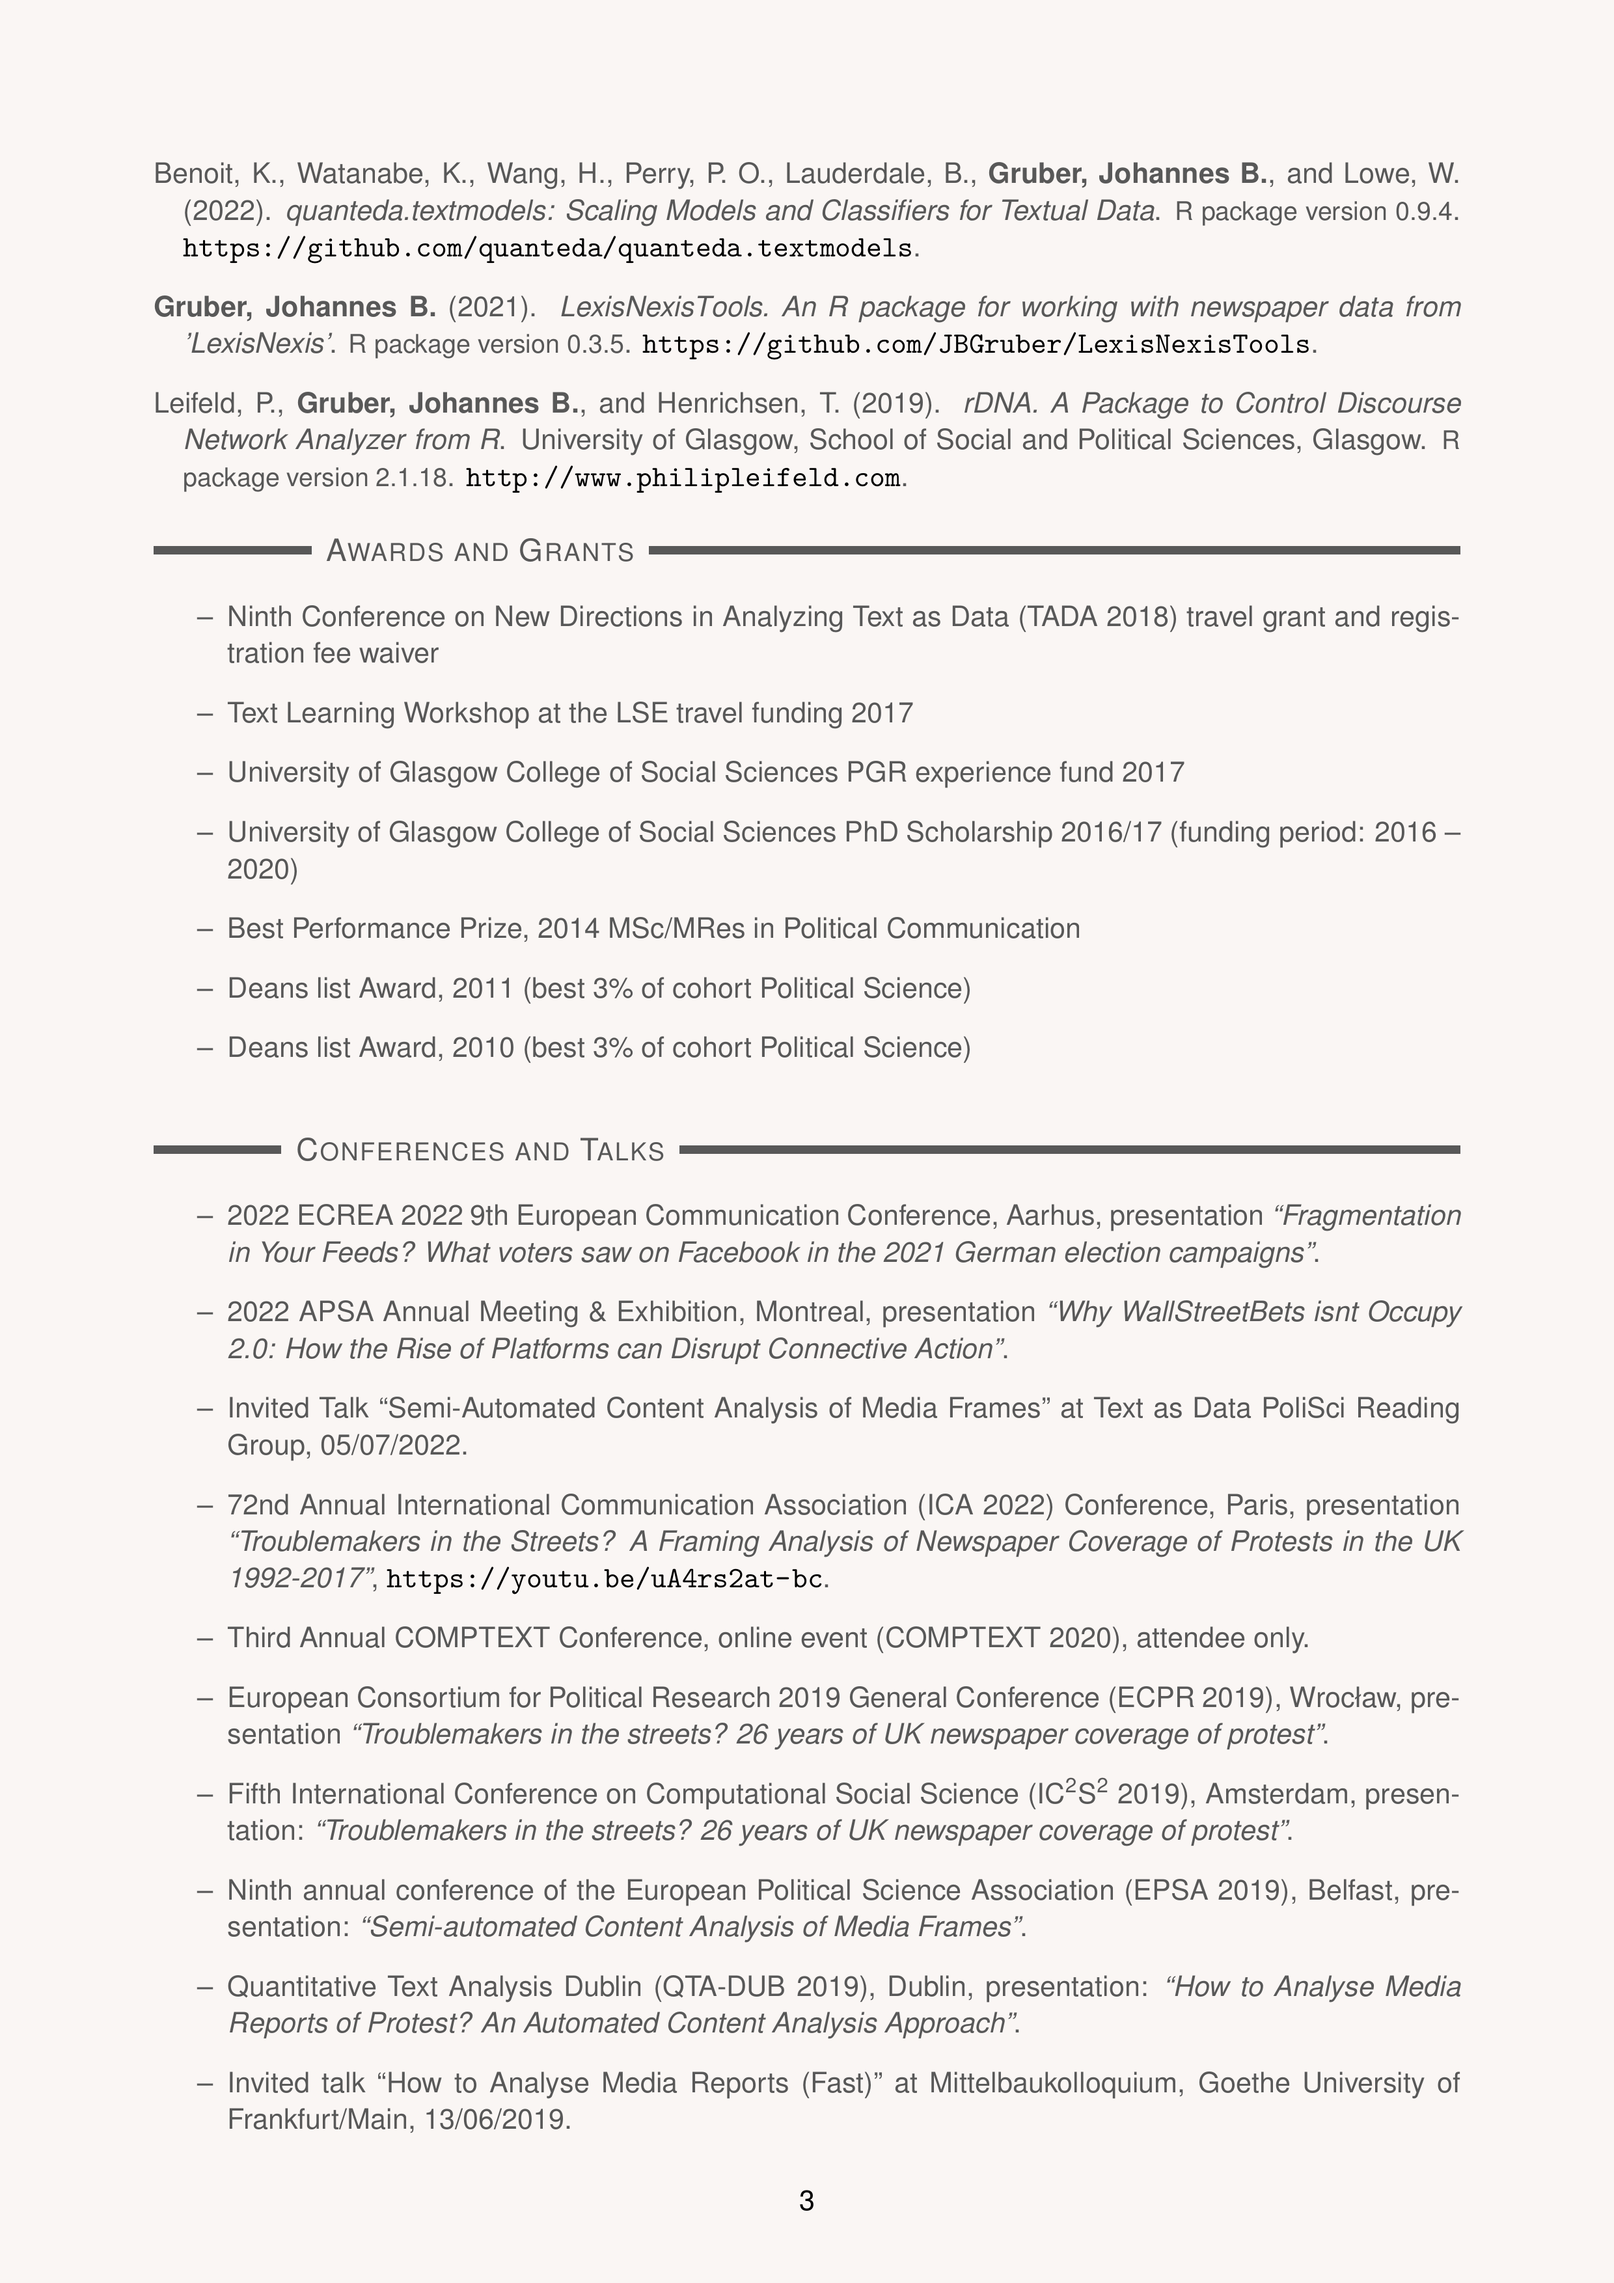
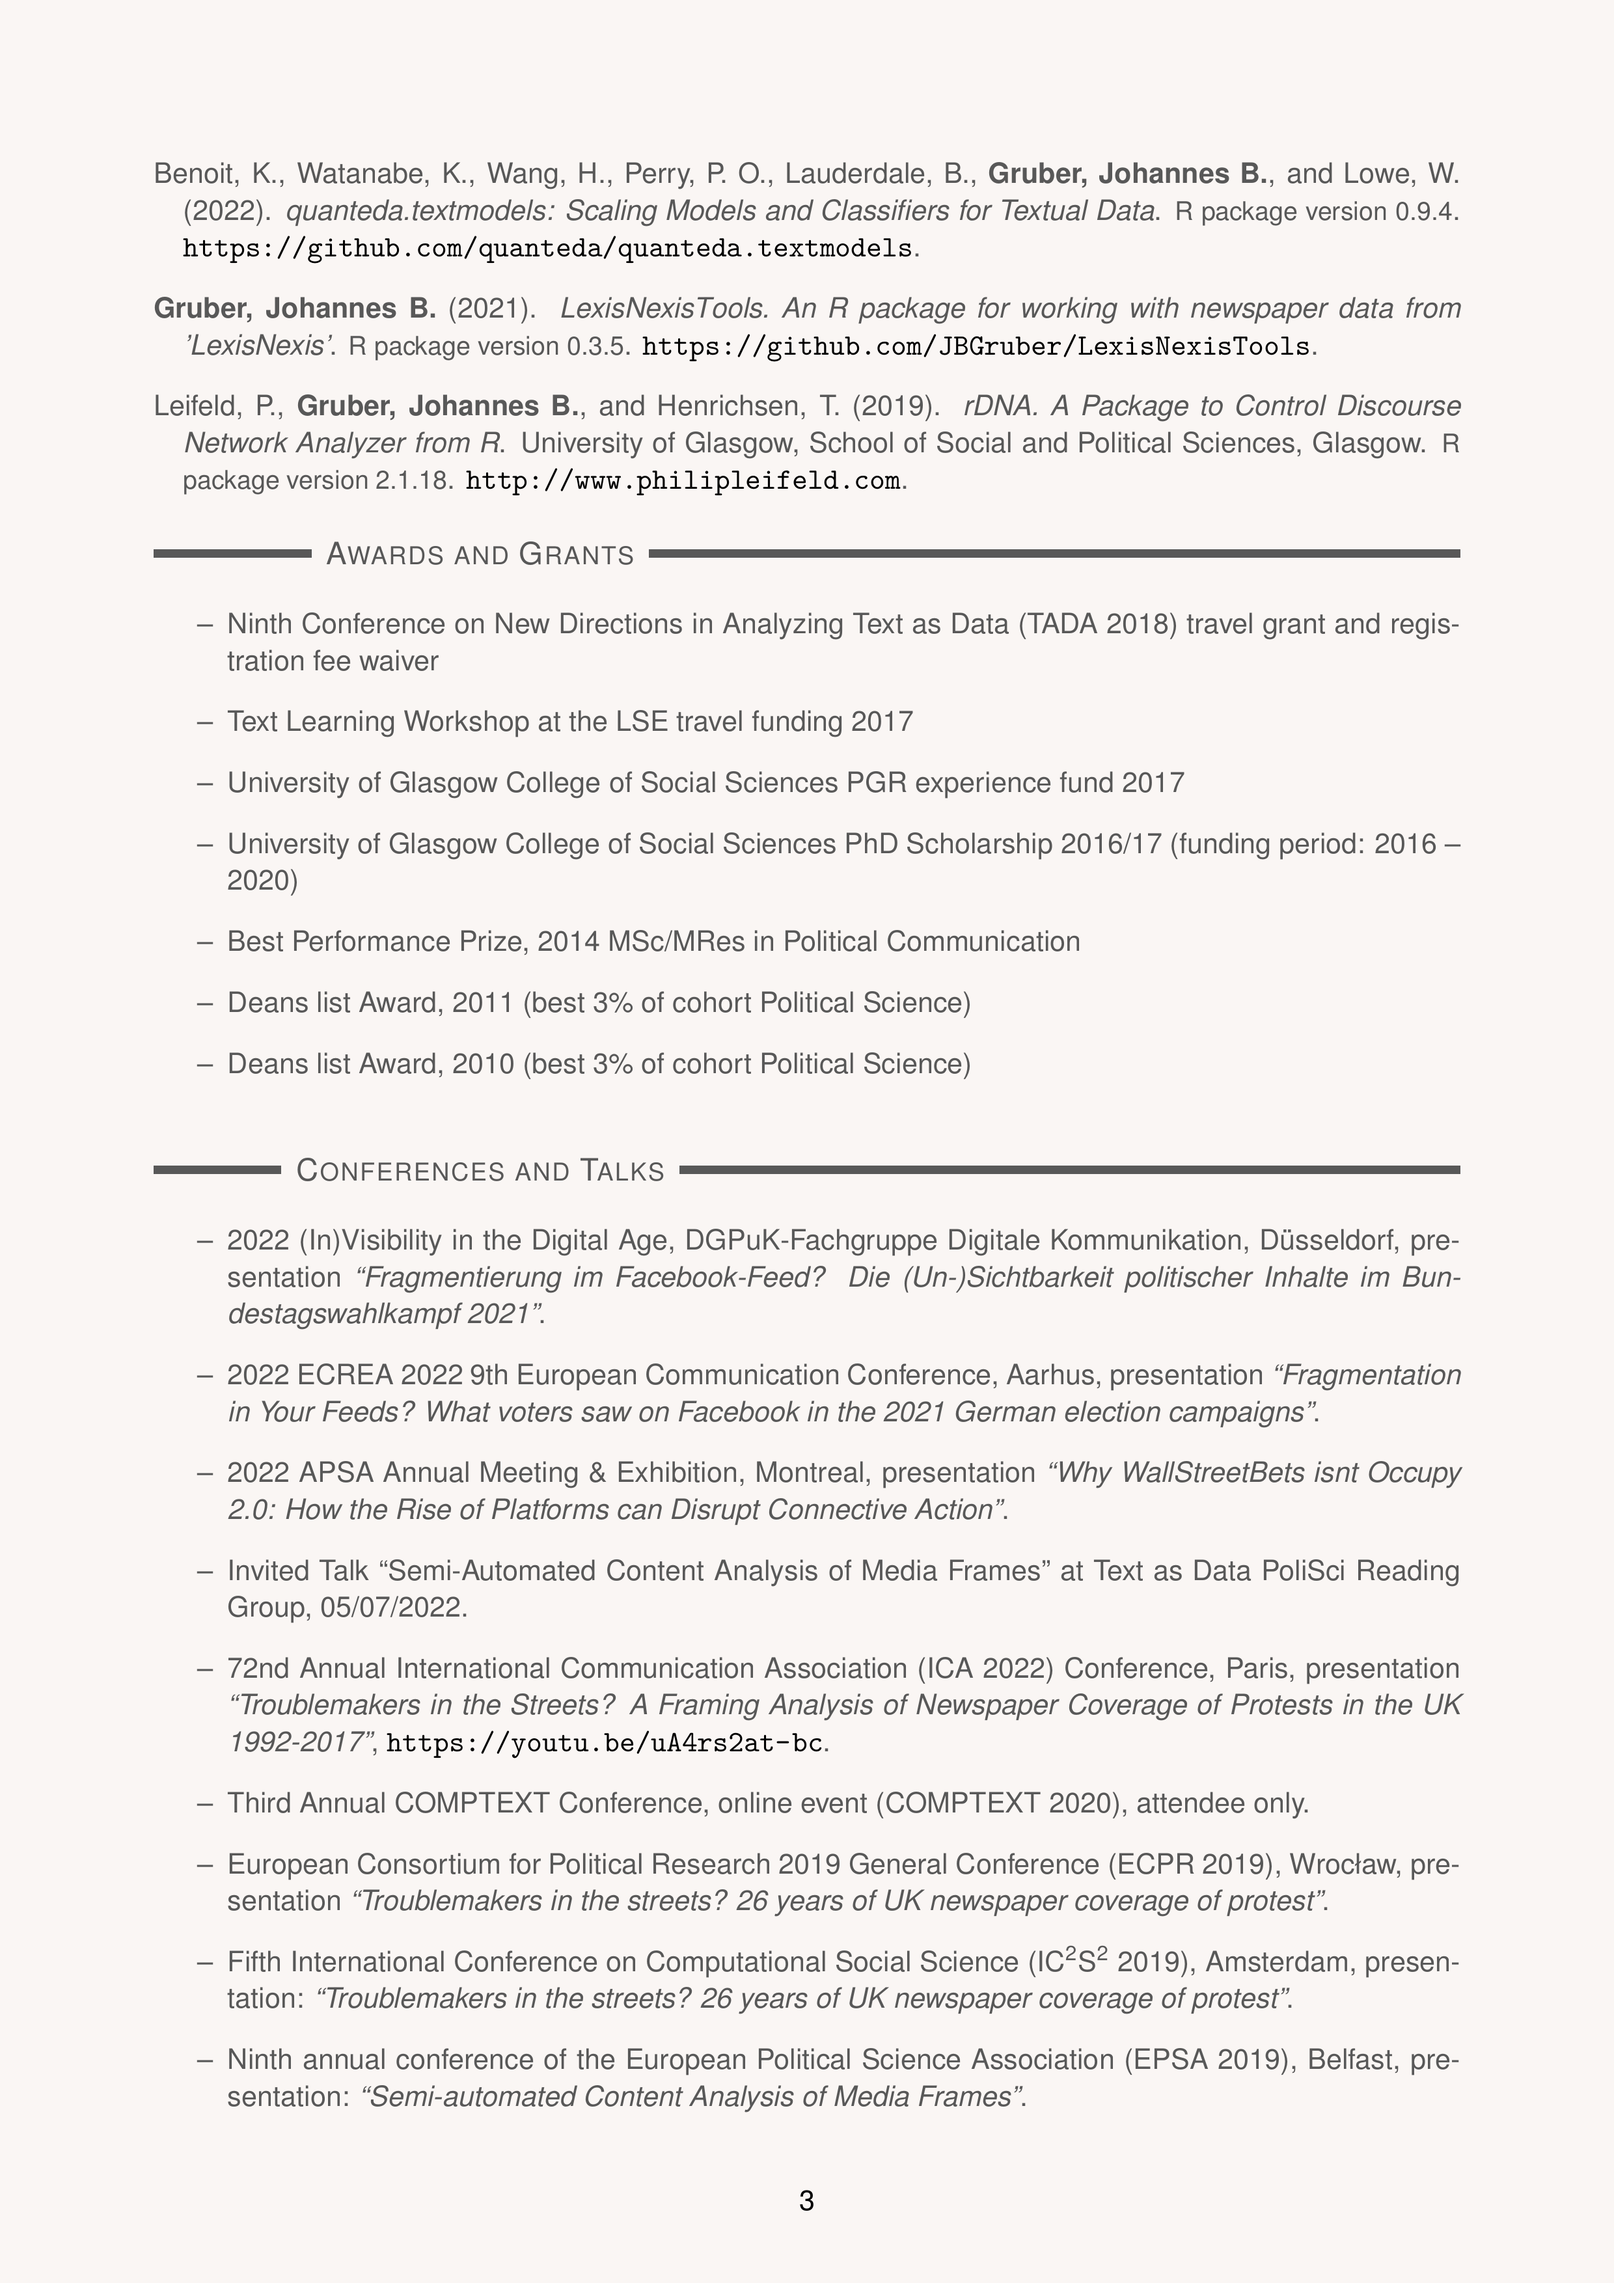
added dgpuk and reviews

diff --git a/README.md b/README.md
@@ -5,7 +5,7 @@
 
 ------------------------------------------------------------------------
 
-![](png_version/CV_JohannesGruber-1.png)<!-- -->![](png_version/CV_JohannesGruber-2.png)<!-- -->![](png_version/CV_JohannesGruber-3.png)<!-- -->
+<img src="png_version/CV_JohannesGruber-1.png" width="2480" /><img src="png_version/CV_JohannesGruber-2.png" width="2480" /><img src="png_version/CV_JohannesGruber-3.png" width="2480" />
 
 Compile from `R` with:
 
